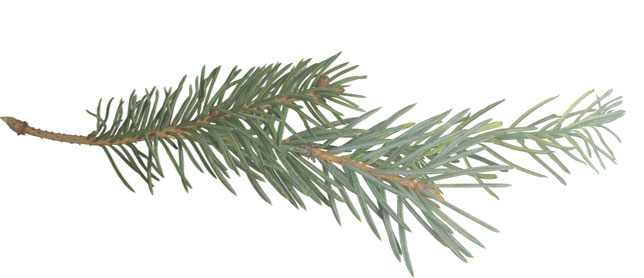
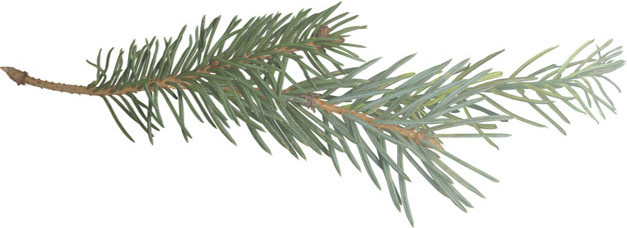
crop excess off of spruce-bough and left justify our-trade copy

diff --git a/css/style.scss b/css/style.scss
@@ -162,7 +162,7 @@ section {
   p {
     color: $grey_text;
     max-width: 1144px;
-    margin: 0 auto;
+    text-align: left;
     font-size: 24px;
     font-family: serif;
     letter-spacing: 0.025em;
@@ -178,7 +178,6 @@ section {
 
   #spruce_bough {
     margin-bottom: 50px;
-    margin-top: 50px;
     @media (max-width: $screen-sm-min) {
       width: 100%;
     }
